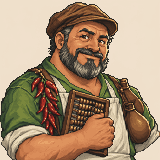
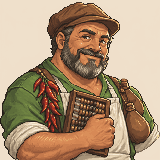
Redraw Gao's portrait with his forearm joined to the hand on the abacus
The style B redraw left the forearm faint at the bottom edge, where the
frame trims it, so the hand read as floating. Seed 31 with wording that
requires an unbroken arm.

Claude-Session: https://claude.ai/code/session_01H8JDTPYztrZvUL5HBCK6eR

diff --git a/prototypes/topdown/tools/portraits_b.py b/prototypes/topdown/tools/portraits_b.py
@@ -65,12 +65,30 @@ REDO = {
                    'with a few loose spiral ringlets at her temples; draw the curls as clustered curl shapes with highlights, not as two smooth buns, '
                    'with a clean outline and no scattered stray pixels',
               style_extra=' Clean, calm hair shapes; sparing dithering.'),
+ # 2026-11-12 owner review: the B redraw lost the forearm, so the hand on the abacus floats.
+ 'gao': dict(keep='his warm smile, flat brown cap, grey-black beard, green shirt with a pale apron, string of red chillies, and the gourd on its strap; '
+                  'his right forearm, with the white sleeve rolled to the elbow, comes in across the bottom left of the picture and joins the hand '
+                  'that holds the abacus against his chest, so the arm runs unbroken from the sleeve to the hand; both arms clearly attached to his shoulders, '
+                  'nothing cut off or floating',
+             style_extra=' Anatomy must be whole: every hand connects to an arm.'),
+}
+
+# Not a person: the narrator speaks as the places of the route (docs/art/prompts/portraits/narrator.md). Its base is a rough
+# composition sketch (gate, quarry hill, low sun, empty cart) passed with --base-dir.
+PLACE_STYLE = ('Highly detailed pixel art emblem of a place, in the style of a premium modern pixel-art RPG dialogue portrait: '
+               'rich palette of about 48 colours, careful hand-placed shading with soft ramps, selective dithering, crisp 1 px outlines in darker material tones. '
+               '{keep}. No people, no faces, no text. Plain light parchment sky, a full square picture with no circular crop. '
+               'No anti-aliased blur; every pixel deliberate.')
+PLACES = {
+ 'narrator': ('narrator_sketch.png', 'a village gate', 'A squat gate of cut warm grey-brown stone blocks with a heavy wooden double door and a wooden crossbeam, '
+              'filling the middle of the picture; a muted green quarry hill with pale cut rock faces rising behind it under a low warm sun; '
+              'a dusty road in front with one small empty wooden hand cart; calm, patient, a little foreboding'),
 }
 
 
 def make(pid, out, seed=11, base_dir=None):
-    base, who, keep = CAST[pid]
-    style = STYLE
+    base, who, keep = CAST[pid] if pid in CAST else PLACES[pid]
+    style = PLACE_STYLE if pid in PLACES else STYLE
     if seed != 11 and pid in REDO:
         keep = REDO[pid]['keep']; style = STYLE + REDO[pid]['style_extra']
     src = Image.open((Path(base_dir) if base_dir else PORTRAITS) / base).convert('RGBA')
